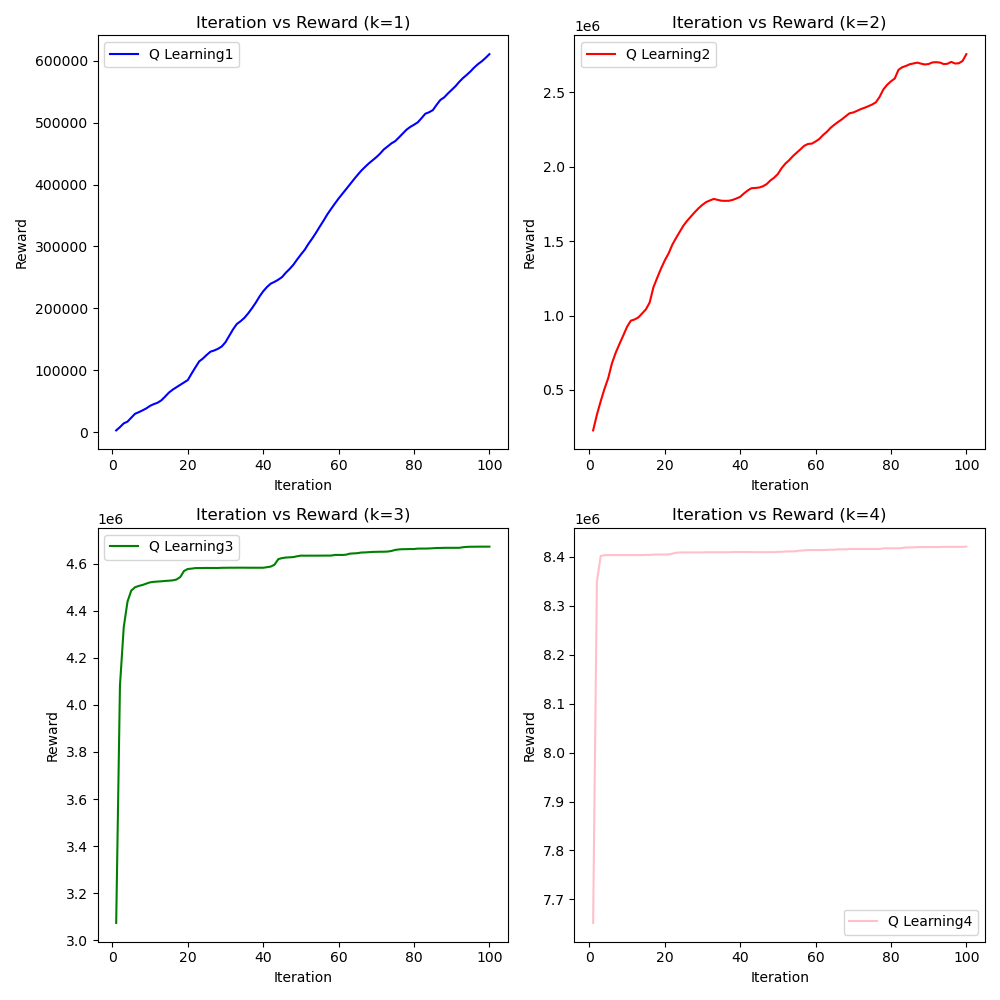
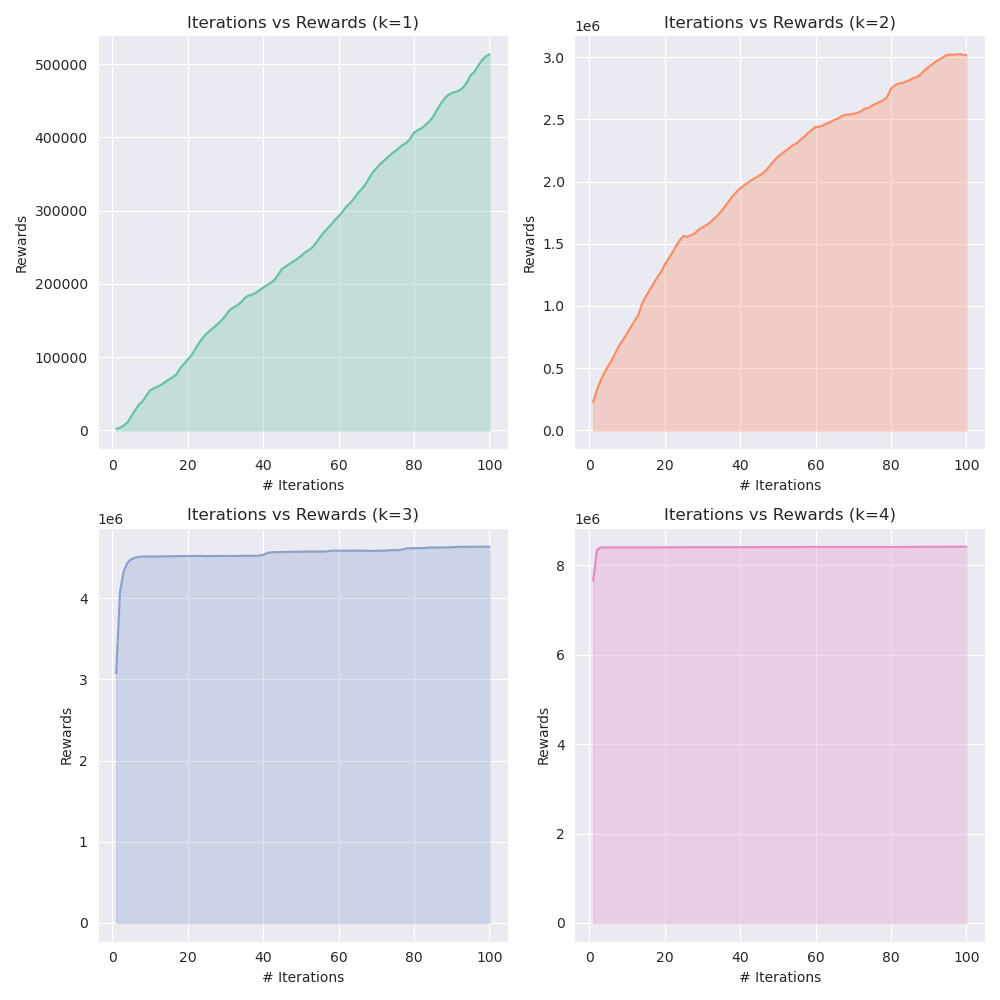
More COmmits

diff --git a/run_benchmarks.py b/run_benchmarks.py
@@ -31,7 +31,7 @@ def graph_recommendation_score(model_load_path, filename, label, scale=4, m=10, 
                 y_recommendation_rand.append(rs.evaluate_recommendation_score(m=i))
             y_recommendation.append(rs.evaluate_recommendation_score(m=i))
 
-        plt.plot(x, y_recommendation, color=color[j-1], label=label + str(j))
+        plt.plot(x, y_recommendation, color=color[j-1], label=label +' k='+ str(j))
         #plt.scatter(x, y_recommendation, color=color[j-1])
 
         if with_comparison:
@@ -54,7 +54,7 @@ def graph_recommendation_score(model_load_path, filename, label, scale=4, m=10, 
     plt.xlabel('Top i Recommendations', fontsize=12)
     plt.ylabel('Recommendation Score', fontsize=12)
     plt.legend()
-    plt.savefig('benchmarks/recommendation_score.png')
+    plt.savefig('benchmarks/'+model_load_path+'_recommendation_score.png')
     plt.show()
 
 def graph_decay_score(model_load_path, filename, scale=3, rand=False):
@@ -91,7 +91,7 @@ def graph_decay_score(model_load_path, filename, scale=3, rand=False):
     fig.suptitle('Avg Exponential Decay Score vs Last K Purchases', fontsize = 12)
     plt.xlabel('K', fontsize = 12)
     plt.ylabel('Exponential Decay Score', fontsize = 12)
-    plt.savefig('benchmarks/exp_decay_score.png')
+    plt.savefig('benchmarks/'+model_load_path+'_exp_decay_score.png')
     plt.show()
 
 def graph_iteration_vs_reward(model_load_path, filename, label, k=4, m=10, with_comparison=False):
@@ -109,12 +109,12 @@ def graph_iteration_vs_reward(model_load_path, filename, label, k=4, m=10, with_
         col_idx = idx % cols
         #print(idx, row_idx, col_idx)
 
-        axs[row_idx, col_idx].plot(x, y, color=color[idx], label=label+ str(idx+1))
+        axs[row_idx, col_idx].plot(x, y, color=color[idx])
         axs[row_idx, col_idx].fill_between(x, y, color=color[idx], alpha=0.3)
         axs[row_idx, col_idx].set_title(f'Iterations vs Rewards (k={idx+1})')
         axs[row_idx, col_idx].set_xlabel('# Iterations')
         axs[row_idx, col_idx].set_ylabel('Rewards')
-        axs[row_idx, col_idx].legend()
+        #axs[row_idx, col_idx].legend()
 
     plt.tight_layout()
     plt.savefig('benchmarks/'+model_load_path+'_iteration_vs_reward.png')
@@ -122,10 +122,18 @@ def graph_iteration_vs_reward(model_load_path, filename, label, k=4, m=10, with_
 
 
 k_value = 4
-# graph_recommendation_score('td', filename ='td_mdp-model_k=', label ="TD Learning ", scale=k_value)
-# graph_decay_score('td',  filename ='td_mdp-model_k=', scale=k_value, rand=False)
-# graph_iteration_vs_reward('td', filename ='td_mdp-model_k=', label ="TD Learning ", k=k_value)
+graph_recommendation_score('td', filename ='td_mdp-model_k=', label ="TD Learning ", scale=k_value)
+graph_decay_score('td',  filename ='td_mdp-model_k=', scale=k_value, rand=False)
+graph_iteration_vs_reward('td', filename ='td_mdp-model_k=', label ="TD Learning ", k=k_value)
 
 graph_recommendation_score('value-iteration', filename ='mdp-model_k=', label ="value-iteration", scale=k_value)
 graph_decay_score('value-iteration',  filename ='mdp-model_k=', scale=k_value, rand=False)
 graph_iteration_vs_reward('value-iteration', filename ='mdp-model_k=', label ="value-iteration", k=k_value)
+
+graph_recommendation_score('randomized-algo', filename ='mdp-model_k=', label ="randomized-algo", scale=k_value)
+graph_decay_score('randomized-algo',  filename ='mdp-model_k=', scale=k_value, rand=False)
+graph_iteration_vs_reward('randomized-algo', filename ='mdp-model_k=', label ="randomized-algo", k=k_value)
+
+graph_recommendation_score('Q', filename ='q_learning_mdp-model_k=', label ="Q Learning ", scale=k_value)
+graph_decay_score('Q',  filename ='q_learning_mdp-model_k=', scale=k_value, rand=False)
+graph_iteration_vs_reward('Q', filename ='q_learning_mdp-model_k=', label ="Q Learning ", k=k_value)

diff --git a/run_hyperpametertuning.py b/run_hyperpametertuning.py
@@ -70,11 +70,18 @@ for alpha in hyper_parameters_grid_search['alpha']:
             #     mm.td_learning_for_optimal_policies(N=100)
             # graph_iteration_vs_reward('td_'+saved_file_suffix,TD_MODEL_PATH+saved_file_suffix, k=k, m=10)
             
+            # for i in range(k):
+            #     mm = MDP(PATH, k=i+1, save_path=QLEARNING_MODEL_PATH+saved_file_suffix)
+            #     mm.initialise_mdp()
+            #     mm.q_learning_for_optimal_policies(N=100)
+            # graph_iteration_vs_reward('q_'+saved_file_suffix,QLEARNING_MODEL_PATH+saved_file_suffix, k=k, m=10)
+
             for i in range(k):
-                mm = MDP(PATH, k=i+1, save_path=QLEARNING_MODEL_PATH+saved_file_suffix)
+                mm = MDP(PATH, k=i+1, save_path=SARSA_MODEL_PATH+saved_file_suffix)
                 mm.initialise_mdp()
-                mm.q_learning_for_optimal_policies(N=100)
-            graph_iteration_vs_reward('q_'+saved_file_suffix,QLEARNING_MODEL_PATH+saved_file_suffix, k=k, m=10)
+                mm.sarsa_for_optimal_policies(N=100)
+            graph_iteration_vs_reward('sarsa_'+saved_file_suffix,SARSA_MODEL_PATH+saved_file_suffix, k=k, m=10)
+
 
 
             # #Hyper-Paramter Tuning for Rest of Approaches

diff --git a/main.py b/main.py
@@ -13,7 +13,7 @@ QLEARNING_MODEL_PATH = 'saved_models/Q'
 K_LAST_PURCHASES = 4
 
 ## Training Mixture Model with Monte Carlo ##
-# mixture_model = MixtureModel(path='dataset', k=K_LAST_PURCHASES, verbose=True, save_path='saved_models/'+MONTE_CARLO_MODEL_PATH)
+# mixture_model = MixtureModel(path='dataset', alpha=0.75, beta_weight=0.25, k=K_LAST_PURCHASES, verbose=True, save_path='saved_models/'+MONTE_CARLO_MODEL_PATH)
 # mixture_model.generate_model(max_iteration=10000)
 
 # ## Training Mixture Model with Randomized Algorithm for identifying optimal policies ##
@@ -24,12 +24,12 @@ K_LAST_PURCHASES = 4
 
 # Training Mixture Model with SARSA Algorithm for identifying optimal policies ##
 for i in range(K_LAST_PURCHASES):
-    mm = MDP(PATH, k=i+1, save_path=SARSA_MODEL_PATH)
+    mm = MDP(PATH, k=i+1, alpha=0.75, beta_weight=0.25, save_path=SARSA_MODEL_PATH)
     mm.initialise_mdp()
     mm.sarsa_for_optimal_policies(N=100)
 
-# for i in range(1, K_LAST_PURCHASES):
-#     mm = MDP(PATH, k=i+1, save_path=TD_MODEL_PATH)
+# for i in range(K_LAST_PURCHASES):
+#     mm = MDP(PATH, k=i+1, alpha=0.75, beta_weight=0.25, save_path=TD_MODEL_PATH)
 #     mm.initialise_mdp()
 #     mm.td_learning_for_optimal_policies(N=100)
 
